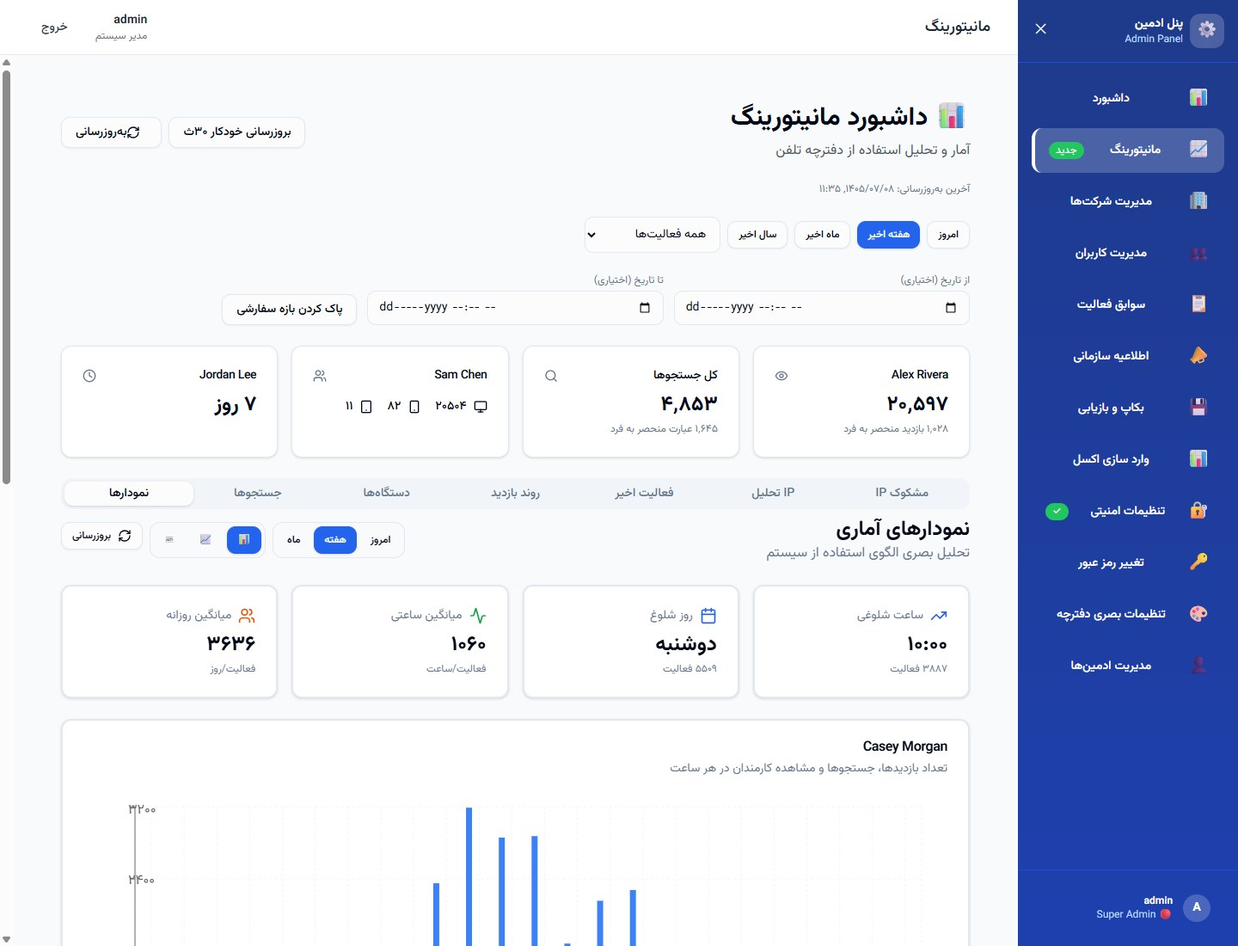
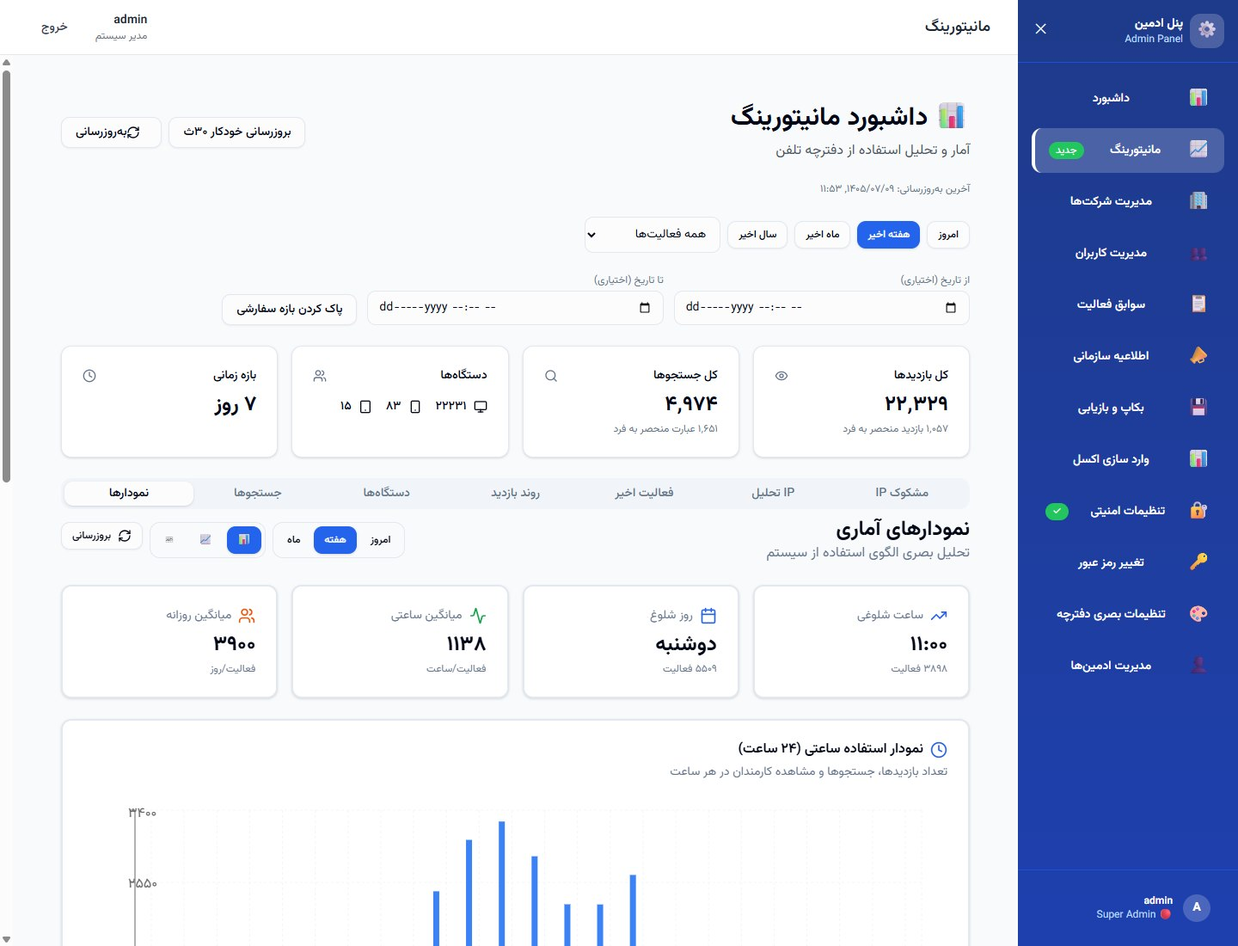
Fix analytics scrub and tighten catalog copy
- Re-capture 08-analytics with Persian KPI/chart labels kept (scrub brands/PII only)
- Clarify Backup & Restore as one combined admin page (screens 11-12)
- Photo limit 2 MB; soften photo-on-every-card claims
- Add Start-here strip, buyer section + CTAs, market positioning
- Persian-weight hero + FA-friendly sticky chips; enrich README

diff --git a/docs/index.html b/docs/index.html
@@ -88,30 +88,57 @@
     @media(max-width:1000px){.highlights{grid-template-columns:1fr 1fr}}
     @media(max-width:900px){.stats,.gallery,.cards,.cards.six{grid-template-columns:1fr 1fr} h1{max-width:none}}
     @media(max-width:560px){.stats,.gallery,.cards,.cards.six,.journey,.highlights{grid-template-columns:1fr}}
+  
+    .fa-title{display:block;font-family:Vazirmatn,Inter,sans-serif;direction:rtl;margin:0 0 12px;font-size:clamp(28px,3.6vw,40px);line-height:1.25;letter-spacing:0;font-weight:700}
+    .start-here{margin:0 0 22px;padding:16px;border:1px solid rgba(96,165,250,.35);border-radius:16px;background:rgba(96,165,250,.07)}
+    .start-label{margin:0 0 12px;font-size:13px;font-weight:600;color:var(--accent)}
+    .fa-inline{font-family:Vazirmatn,Inter,sans-serif}
+    .start-row{display:grid;grid-template-columns:repeat(5,minmax(0,1fr));gap:8px}
+    .start-row a{display:flex;flex-direction:column;gap:2px;padding:12px 10px;border-radius:12px;border:1px solid var(--line);background:var(--card);color:var(--text);text-decoration:none;min-height:78px}
+    .start-row a:hover{border-color:var(--accent);text-decoration:none}
+    .start-row small{color:var(--accent);font-size:10px;font-weight:700;letter-spacing:.12em}
+    .start-row span{font-size:12.5px;font-weight:600}
+    .start-row em{font-style:normal;font-family:Vazirmatn,Inter,sans-serif;direction:rtl;color:var(--muted);font-size:11.5px}
+    .buyer,.market{margin:0 0 22px;padding:20px 18px;border:1px solid var(--line);border-radius:16px;background:var(--card)}
+    .buyer-h{margin:0 0 10px;font-size:18px;font-weight:700}
+    .buyer-en{margin:0 0 8px;color:var(--muted);font-size:14px;max-width:820px}
+    .buyer-fa{margin:0 0 14px;color:var(--muted);font-size:14px;font-family:Vazirmatn,Inter,sans-serif;direction:rtl;max-width:820px}
+    .cta-row{display:flex;flex-wrap:wrap;gap:10px;margin:0}
+    a.cta{display:inline-flex;align-items:center;padding:10px 16px;border-radius:999px;background:var(--accent);color:#0b1220;font-weight:700;font-size:13px;text-decoration:none}
+    a.cta:hover{text-decoration:none;filter:brightness(1.05)}
+    a.cta.ghost{background:transparent;border:1px solid var(--accent);color:var(--accent)}
+    .market-cards{display:grid;grid-template-columns:repeat(3,1fr);gap:10px}
+    .mcard{padding:14px;border:1px solid var(--line);border-radius:12px;background:rgba(7,9,13,.35)}
+    .mcard h3{margin:0 0 6px;font-size:14px}
+    .mcard p{margin:0;color:var(--muted);font-size:12.5px;line-height:1.5}
+    @media(max-width:900px){.start-row,.market-cards{grid-template-columns:1fr 1fr}}
+    @media(max-width:560px){.start-row,.market-cards{grid-template-columns:1fr}}
+
   </style>
 </head>
 <body>
   <header class="hero">
     <div class="wrap">
-      <p class="kicker">Enterprise Directory · 17-screen product tour · Staff + Admin</p>
-      <h1>Photos, mobile &amp; email, announcements, and admin reports — in one org phonebook</h1>
+      <p class="kicker">دفترچه تلفن سازمانی · Enterprise Directory · تور ۱۷ صفحهای · Staff + Admin</p>
+      <h1><span class="fa-title">دفترچه سازمانی با عکس، موبایل، اطلاعیه و گزارش ادمین</span>
+        Photos, mobile &amp; email, announcements, and admin reports — in one org phonebook</h1>
       <p class="lede">
-        Colleagues open contact cards with <strong>profile photos</strong>, <strong>mobile</strong>, and <strong>email</strong>;
+        Colleagues open contact cards with a <strong>profile photo when uploaded</strong> (else a gendered demo avatar), plus <strong>mobile</strong> and <strong>email</strong> when privacy toggles allow;
         the holding publishes <strong>org announcements</strong>; operators run <strong>admin reports</strong>, activity audit,
-        Excel import, backups, theme, and 2FA. Frames are <strong>real product pages</strong> with sensitive rows anonymized.
+        Excel import, backup &amp; restore, theme, and 2FA. Frames are <strong>real product pages</strong> with sensitive rows anonymized.
       </p>
       <p class="lede fa">
-        همکاران روی کارتها <strong>عکس پرسنل</strong>، <strong>موبایل</strong> و <strong>ایمیل</strong> را میبینند؛
+        همکاران روی کارتها <strong>عکس پروفایل (در صورت آپلود)</strong> یا آواتار دموی خانم/آقا میبینند؛ موبایل و ایمیل با کنترل نمایش؛
         هلدینگ <strong>اطلاعیه سازمانی</strong> منتشر میکند؛ ادمینها <strong>گزارش و مانیتورینگ</strong>، لاگ فعالیت،
-        ورود اکسل، بکاپ، تم و ۲FA را مدیریت میکنند. اسکرینها از UI واقعیاند با دادهٔ دمو.
+        ورود اکسل، بکاپ و بازیابی، تم و ۲FA را مدیریت میکنند. اسکرینها از UI واقعیاند با دادهٔ دمو.
       </p>
 
       <div class="highlights" aria-label="Key capabilities">
         <a class="hl" href="#s-16">
           <span class="ico" aria-hidden="true">📷</span>
           <b>Personnel photos</b>
-          <span>Upload JPEG/PNG/WebP, crop &amp; zoom, circular card preview — avatars on the staff directory.</span>
-          <span class="fa">آپلود عکس پرسنل، برش و زوم، پیشنمایش دایرهای روی کارت دفترچه.</span>
+          <span>Upload JPEG/PNG/WebP (max 2&nbsp;MB), crop &amp; zoom, circular preview — on the staff card when a photo is uploaded.</span>
+          <span class="fa">آپلود عکس (حداکثر ۲MB)، برش و زوم، پیشنمایش دایرهای — روی کارت وقتی عکس آپلود شده باشد.</span>
         </a>
         <a class="hl" href="#s-01">
           <span class="ico" aria-hidden="true">📱</span>
@@ -133,6 +160,36 @@
         </a>
       </div>
 
+      <div class="start-here" id="start">
+        <p class="start-label"><span class="fa-inline">شروع از اینجا</span> · Start here — 5 key frames</p>
+        <div class="start-row">
+          <a href="#s-01"><small>01</small><span>Directory</span><em>دفترچه</em></a>
+          <a href="#s-09"><small>09</small><span>Announcements</span><em>اطلاعیه</em></a>
+          <a href="#s-08"><small>08</small><span>Monitoring</span><em>مانیتورینگ</em></a>
+          <a href="#s-16"><small>16</small><span>Photo upload</span><em>آپلود عکس</em></a>
+          <a href="#s-17"><small>17</small><span>Crop</span><em>برش</em></a>
+        </div>
+      </div>
+
+      <section class="buyer" id="buyer" aria-label="Who it's for">
+        <h2 class="buyer-h">Who it's for / مخاطب</h2>
+        <p class="buyer-en">Built for <strong>holding IT</strong> and multi-company orgs that need an <strong>on-prem Persian RTL PWA</strong> phonebook — not a cloud CRM contacts module. Privacy toggles (<code>show_mobile</code> / <code>show_email</code>) keep sensitive fields under admin control.</p>
+        <p class="buyer-fa">برای <strong>IT هلدینگ</strong> و سازمانهای چندشرکتی که به دفترچهٔ <strong>آنپریم، فارسی و RTL بهصورت PWA</strong> نیاز دارند — نه ماژول مخاطبین CRM ابری. کنترل نمایش موبایل/ایمیل در دست ادمین است.</p>
+        <p class="cta-row">
+          <a class="cta" href="https://www.ramioo.com/contact">Contact / تماس</a>
+          <a class="cta ghost" href="https://www.ramioo.com/projects/enterprise-directory">Project page</a>
+        </p>
+      </section>
+
+      <section class="market" id="market" aria-label="Market positioning">
+        <h2 class="buyer-h">Where it sits / جایگاه</h2>
+        <div class="market-cards">
+          <div class="mcard"><h3>vs Excel / static PDF</h3><p>Live search, filters, multi-company tree, and operator governance — without file drift or reprint cycles.</p></div>
+          <div class="mcard"><h3>vs generic CRM contacts</h3><p>Org phonebook UX for staff (RTL PWA, extensions, privacy toggles), not sales pipeline clutter.</p></div>
+          <div class="mcard"><h3>On-prem holding fit</h3><p>Announcements, usage monitoring, Excel import, backup &amp; restore, and 2FA for IT-owned deployments.</p></div>
+        </div>
+      </section>
+
       <div class="banner">
         <b>Anonymized deployment shots.</b>
         Names, companies, phones, emails, and IPs were replaced with fictional demo data in the browser before capture — no blur, no server changes.
@@ -152,8 +209,8 @@
         <a class="key" href="#s-08"><small>08</small><span>Reports / monitoring</span></a>
         <a class="key" href="#s-09"><small>09</small><span>Announcements</span></a>
         <a href="#s-10"><small>10</small><span>Excel import</span></a>
-        <a href="#s-11"><small>11</small><span>Backup</span></a>
-        <a href="#s-12"><small>12</small><span>Restore</span></a>
+        <a href="#s-11"><small>11</small><span>Backup &amp; Restore</span></a>
+        <a href="#s-12"><small>12</small><span>Backup &amp; Restore</span></a>
         <a href="#s-13"><small>13</small><span>Security / 2FA</span></a>
         <a href="#s-14"><small>14</small><span>Visual theme</span></a>
         <a href="#s-15"><small>15</small><span>Password</span></a>
@@ -161,26 +218,27 @@
         <a class="key" href="#s-17"><small>17</small><span>Photo crop</span></a>
       </nav>
       <div class="stats">
-        <div class="stat"><b>Photo + crop</b><span>Personnel avatars on cards</span></div>
-        <div class="stat"><b>Mobile · Email</b><span>Visible on staff directory</span></div>
-        <div class="stat"><b>Announcements</b><span>Holding-wide notices</span></div>
-        <div class="stat"><b>Admin reports</b><span>Analytics + activity audit</span></div>
+        <div class="stat"><b>17 screens</b><span>Staff + Admin tour</span></div>
+        <div class="stat"><b>Staff + Admin</b><span>Directory &amp; governance</span></div>
+        <div class="stat"><b>2FA</b><span>Authenticator + recovery</span></div>
+        <div class="stat"><b>On-prem</b><span>Persian RTL PWA</span></div>
       </div>
     </div>
   </header>
 
   <nav class="toc">
     <div class="wrap">
-      <a class="chip key" href="#s-01">01 Mobile/Email</a>
-      <a class="chip key" href="#s-08">08 Reports</a>
-      <a class="chip key" href="#s-09">09 Announcements</a>
-      <a class="chip key" href="#s-16">16 Photo</a>
-      <a class="chip key" href="#s-17">17 Crop</a>
+      <a class="chip key" href="#start">Start here</a>
+      <a class="chip key" href="#s-01">01 دفترچه</a>
+      <a class="chip key" href="#s-08">08 مانیتورینگ</a>
+      <a class="chip key" href="#s-09">09 اطلاعیه</a>
+      <a class="chip key" href="#s-16">16 عکس</a>
+      <a class="chip key" href="#s-17">17 برش</a>
+      <a class="chip" href="#buyer">Buyer</a>
       <a class="chip" href="#s-03">03 Dashboard</a>
-      <a class="chip" href="#s-05">05 Employees</a>
-      <a class="chip" href="#s-10">10 Import</a>
+      <a class="chip" href="#s-11">11–12 Backup</a>
       <a class="chip" href="#s-13">13 Security</a>
-      <a class="chip" href="#stack">All capabilities</a>
+      <a class="chip" href="#stack">Capabilities</a>
       <a class="chip" href="https://github.com/ramincsy/enterprise-directory-showcase">GitHub</a>
     </div>
   </nav>
@@ -189,15 +247,15 @@
 
   <section class="mod" id="s-01"><div class="wrap">
     <p class="step-kicker">01 / 17 · Staff · Key capability</p>
-    <h2>Staff directory — photos, mobile, and email on every card</h2>
+    <h2>Staff directory — search, cards, mobile &amp; email</h2>
     <div class="pillrow">
-      <span class="pill">Profile photo avatars</span>
+      <span class="pill">Profile photo when uploaded</span>
       <span class="pill">Mobile action</span>
       <span class="pill">Email action</span>
       <span class="pill">Extension · search · filters</span>
     </div>
-    <p class="why">Search by name, department, or email; filter by company and department. Each contact card shows a profile photo (or gendered demo avatar), the extension, and — when visibility allows — one-tap <strong>email</strong> and <strong>mobile</strong> actions. Dark mode and language live in the product chrome.</p>
-    <p class="why fa">جستجو با نام، بخش یا ایمیل؛ فیلتر شرکت و بخش. روی هر کارت: <strong>عکس پروفایل</strong> (یا آواتار دموی خانم/آقا)، داخلی، و در صورت مجاز بودن نمایش، اکشن <strong>ایمیل</strong> و <strong>موبایل</strong>. تم تیره و زبان در خود محصول است.</p>
+    <p class="why">Search by name, department, or email; filter by company and department. Each card shows a profile photo when uploaded (otherwise a gendered demo avatar), the extension, and — when <code>show_mobile</code> / <code>show_email</code> allow — one-tap <strong>email</strong> and <strong>mobile</strong> actions. Dark mode and language live in the product chrome.</p>
+    <p class="why fa">جستجو با نام، بخش یا ایمیل؛ فیلتر شرکت و بخش. روی کارت: <strong>عکس پروفایل در صورت آپلود</strong> (وگرنه آواتار دموی خانم/آقا)، داخلی، و با کنترل نمایش، اکشن <strong>ایمیل</strong> و <strong>موبایل</strong>. تم تیره و زبان در خود محصول است.</p>
     <div class="shot" data-full="shots/01-directory.jpg"><img src="shots/01-directory.jpg" alt="01 — Staff directory with photos, mobile and email" /></div>
     <p class="note">Card identities swapped to fictional demo people/companies before capture. Look for photo avatars plus email/mobile controls on the cards.</p>
     <p class="note fa">هویت روی کارتها قبل از اسکرین با دادهٔ دمو عوض شده است. آواتار عکس و کنترل ایمیل/موبایل را روی کارتها ببینید.</p>
@@ -298,19 +356,19 @@
 
   <section class="mod" id="s-11"><div class="wrap">
     <p class="step-kicker">11 / 17 · Data</p>
-    <h2>Backup — JSON export of the book</h2>
-    <p class="why">Export companies, employees, announcements, and admin metadata for migration or disaster recovery.</p>
-    <p class="why fa">خروجی JSON شرکتها، کارمندان، اطلاعیهها و متادیتای ادمین برای مهاجرت یا بازیابی.</p>
-    <div class="shot" data-full="shots/11-backup.jpg"><img src="shots/11-backup.jpg" alt="11 — Backup" /></div>
-    <p class="next"><a href="#s-12">Next · 12 Restore →</a></p>
+    <h2>Backup &amp; Restore — export and gated recovery</h2>
+    <p class="why">One admin page for disaster recovery: JSON export of companies, employees, announcements, and admin metadata — plus Super Admin–only restore with confirmation phrase and optional wipe-before-load.</p>
+    <p class="why fa">یک صفحه برای بازیابی: خروجی JSON شرکتها، کارمندان، اطلاعیهها و متادیتای ادمین؛ و بازیابی فقط سوپرادمین با عبارت تأیید و امکان پاکسازی قبل از بارگذاری.</p>
+    <div class="shot" data-full="shots/11-backup.jpg"><img src="shots/11-backup.jpg" alt="11 — Backup &amp; Restore" /></div>
+    <p class="next"><a href="#s-12">Next · 12 same combined page →</a></p>
   </div></section>
 
   <section class="mod" id="s-12"><div class="wrap">
     <p class="step-kicker">12 / 17 · Data</p>
-    <h2>Restore — gated recovery</h2>
-    <p class="why">Super Admin–only restore with confirmation phrase and optional wipe-before-load for clean migrations.</p>
-    <p class="why fa">بازیابی فقط سوپرادمین با عبارت تأیید و امکان پاکسازی قبل از بارگذاری.</p>
-    <div class="shot" data-full="shots/12-restore.jpg"><img src="shots/12-restore.jpg" alt="12 — Restore" /></div>
+    <h2>Backup &amp; Restore — same combined page</h2>
+    <p class="why">Not a separate Restore-only screen: backup export and gated restore live on one admin surface (menu: بکاپ و بازیابی). Frame 12 keeps tour numbering while showing the same combined page.</p>
+    <p class="why fa">صفحهٔ جداگانهٔ «فقط بازیابی» نیست؛ خروجی و بازیابی در یک سطح ادمین (منو: بکاپ و بازیابی) هستند. فریم ۱۲ همان صفحه برای پیوستگی تور است.</p>
+    <div class="shot" data-full="shots/12-restore.jpg"><img src="shots/12-restore.jpg" alt="12 — Backup &amp; Restore (combined)" /></div>
     <p class="next"><a href="#s-13">Next · 13 Security →</a></p>
   </div></section>
 
@@ -346,10 +404,10 @@
     <h2>Add personnel photos — edit user &amp; upload</h2>
     <div class="pillrow">
       <span class="pill">JPEG / PNG / WebP</span>
-      <span class="pill">Max 3 MB</span>
+      <span class="pill">Max 2 MB</span>
       <span class="pill">Shows on staff directory</span>
     </div>
-    <p class="why">From the people table, operators open <strong>Edit User</strong> to change bilingual names, company, gender, department, extension — and <strong>attach a profile photo</strong>. That photo becomes the avatar on staff directory cards so colleagues recognize people, not just numbers.</p>
+    <p class="why">From the people table, operators open <strong>Edit User</strong> to change bilingual names, company, gender, department, extension — and <strong>attach a profile photo</strong> (JPEG/PNG/WebP, max 2&nbsp;MB). When uploaded, that photo becomes the avatar on staff directory cards; otherwise a gendered demo avatar is shown.</p>
     <p class="why fa">از جدول افراد، اپراتور «ویرایش کاربر» را باز میکند تا نام دوزبانه، شرکت، جنسیت، بخش، داخلی و <strong>عکس پروفایل</strong> را تنظیم کند. همان عکس روی کارت دفترچه دیده میشود تا همکاران افراد را بشناسند، نه فقط شماره داخلی.</p>
     <div class="shot" data-full="shots/16-employee-edit.jpg"><img src="shots/16-employee-edit.jpg" alt="16 — Edit employee with photo upload" /></div>
     <p class="next"><a href="#s-17">Next · 17 Photo crop →</a></p>
@@ -384,8 +442,8 @@
 
   <section class="mod" id="fa"><div class="wrap fa-block">
     <h2>دفترچه تلفن سازمانی — تور ۱۷ صفحهای</h2>
-    <p class="why">بیننده باید در نگاه اول بفهمد: میتوان <strong>عکس پرسنل</strong> اضافه کرد، روی کارتها <strong>موبایل و ایمیل</strong> دید، <strong>اطلاعیه سازمانی</strong> منتشر کرد، و <strong>گزارش ادمین</strong> (مانیتورینگ و لاگ) گرفت — بههمراه شرکتها، اکسل، بکاپ، تم و ۲FA.</p>
-    <p class="why">ترتیب تور: دفترچه کاربری → ورود ادمین → داشبورد → شرکتها → کارمندان → ادمینها → فعالیت → مانیتورینگ → اطلاعیه → اکسل → بکاپ → بازیابی → امنیت → تم بصری → تغییر رمز → ویرایش و آپلود عکس → برش/زوم عکس.</p>
+    <p class="why">بیننده باید در نگاه اول بفهمد: میتوان <strong>عکس پروفایل</strong> آپلود کرد (در غیر این صورت آواتار دمو)، با کنترل نمایش <strong>موبایل و ایمیل</strong> دید، <strong>اطلاعیه سازمانی</strong> منتشر کرد، و <strong>گزارش ادمین</strong> (مانیتورینگ و لاگ) گرفت — بههمراه شرکتها، اکسل، بکاپ، تم و ۲FA.</p>
+    <p class="why">ترتیب تور: دفترچه کاربری → ورود ادمین → داشبورد → شرکتها → کارمندان → ادمینها → فعالیت → مانیتورینگ → اطلاعیه → اکسل → بکاپ و بازیابی → امنیت → تم بصری → تغییر رمز → ویرایش و آپلود عکس → برش/زوم عکس.</p>
     <p class="note fa">اسکرینها از UI واقعیاند؛ نامها و مشخصات حساس در مرورگر با دادهٔ دمو عوض شدهاند (بدون بلور).</p>
   </div></section>
 
@@ -420,8 +478,8 @@
       { n:"08", src:"shots/08-analytics.jpg", tag:"OPS · KEY", title:"Admin reports", desc:"Usage analytics & monitoring", key:true },
       { n:"09", src:"shots/09-announcements.jpg", tag:"OPS · KEY", title:"Org announcements", desc:"Holding-wide notices", key:true },
       { n:"10", src:"shots/10-import.jpg", tag:"DATA", title:"Excel import", desc:"Bulk load + preview" },
-      { n:"11", src:"shots/11-backup.jpg", tag:"DATA", title:"Backup", desc:"JSON export" },
-      { n:"12", src:"shots/12-restore.jpg", tag:"DATA", title:"Restore", desc:"Gated recovery" },
+      { n:"11", src:"shots/11-backup.jpg", tag:"DATA", title:"Backup & Restore", desc:"JSON export + gated restore" },
+      { n:"12", src:"shots/12-restore.jpg", tag:"DATA", title:"Backup & Restore", desc:"Same combined admin page" },
       { n:"13", src:"shots/13-security.jpg", tag:"SEC", title:"Security / 2FA", desc:"Authenticator + codes" },
       { n:"14", src:"shots/14-visual-settings.jpg", tag:"BRAND", title:"Visual settings", desc:"Theme the public book" },
       { n:"15", src:"shots/15-change-password.jpg", tag:"SEC", title:"Change password", desc:"Operator hygiene" },

diff --git a/README.md b/README.md
@@ -2,10 +2,11 @@
 
 # Enterprise directory
 
-Contacts across large organizations
+Contacts across large organizations · دفترچه تلفن سازمانی
 
 <p>
-  <a href="https://www.ramioo.com/projects/enterprise-directory"><img src="https://img.shields.io/badge/▶%20Open%20project%20page-0A66C2?style=for-the-badge" alt="Open project page" /></a>
+  <a href="https://www.ramioo.com/projects/enterprise-directory"><img src="https://img.shields.io/badge/%E2%86%92%20Open%20project%20page-0A66C2?style=for-the-badge" alt="Open project page" /></a>
+  <a href="https://ramincsy.github.io/enterprise-directory-showcase/"><img src="https://img.shields.io/badge/17--screen%20Pages%20tour-111827?style=for-the-badge" alt="Pages tour" /></a>
   <a href="https://github.com/ramincsy/ramioo-showcase"><img src="https://img.shields.io/badge/ramioo-showcase-hub-111827?style=for-the-badge" alt="hub" /></a>
 </p>
 
@@ -13,32 +14,52 @@ Contacts across large organizations
   <a href="https://www.ramioo.com/projects/enterprise-directory"><img src="docs/card.jpg" alt="Enterprise directory" width="860" /></a>
 </p>
 
-<p><a href="https://www.ramioo.com/projects/enterprise-directory">https://www.ramioo.com/projects/enterprise-directory</a></p>
+<p><a href="https://ramincsy.github.io/enterprise-directory-showcase/">Live catalog (GitHub Pages)</a> · <a href="https://www.ramioo.com/projects/enterprise-directory">Project page</a></p>
 
 </div>
 
 > Public product window. Source code stays private.
 
-Interactive UI catalogs on GitHub Pages: [Atlas](https://ramincsy.github.io/atlas-showcase/) · [Taradod Nexus](https://ramincsy.github.io/taradod-nexus-showcase/)
+Interactive UI catalogs on GitHub Pages: [Atlas](https://ramincsy.github.io/atlas-showcase/) · [Taradod Nexus](https://ramincsy.github.io/taradod-nexus-showcase/) · [AftabPulse](https://ramincsy.github.io/aftabpulse-showcase/)
 
 ---
 
 ### Focus
 
-- Organization-wide phone book / directory
-- Search and structure for large orgs
-- Operational UI for staff, not just a static list
-- Deployed as part of ramioo software portfolio
+- Organization-wide phone book / directory for holding IT and multi-company orgs
+- On-prem Persian RTL PWA — staff directory + full admin governance
+- Operational UI for staff, not a static Excel/PDF list or generic CRM contacts module
+
+---
+
+### Key capabilities
+
+- **Staff directory** — search/filters; profile photo when uploaded (else gendered demo avatar); mobile & email when `show_mobile` / `show_email` allow
+- **Org announcements** — time-bounded holding notices in the staff experience
+- **Admin reports / monitoring** — usage analytics, search heat, device mix, activity audit
+- **People ops** — companies, employees, Excel import, photo upload + crop (max **2 MB**)
+- **Backup & Restore** — combined admin page (JSON export + gated Super Admin restore)
+- **Security** — Authenticator 2FA, recovery codes, separate admin login
+
+**Tour:** [17-screen catalog on GitHub Pages](https://ramincsy.github.io/enterprise-directory-showcase/)
+
+---
+
+### Who it’s for
+
+Holding IT teams that need an on-prem, privacy-controlled org phonebook with announcements and monitoring — without stitching spreadsheets or CRM contact modules.
+
+CTAs: [Contact](https://www.ramioo.com/contact) · [Project page](https://www.ramioo.com/projects/enterprise-directory)
 
 ---
 
 <div dir="rtl" lang="fa" align="right">
 
-### فارسی
+### تمرکز
 
-دفترچه تلفن / دایرکتوری سازمانی. ویترین عمومی؛ سورس خصوصی.
+دفترچه تلفن / دایرکتوری سازمانی برای IT هلدینگ و چندشرکتی. آنپریم، فارسی و RTL بهصورت PWA. تور ۱۷ صفحهای: <a href="https://ramincsy.github.io/enterprise-directory-showcase/">کاتالوگ Pages</a>.
 
-صفحهٔ معرفی پروژه: <a href="https://www.ramioo.com/projects/enterprise-directory">https://www.ramioo.com/projects/enterprise-directory</a>
+صفحهٔ پروژه: <a href="https://www.ramioo.com/projects/enterprise-directory">https://www.ramioo.com/projects/enterprise-directory</a>
 
 </div>
 
@@ -48,3 +69,4 @@ Interactive UI catalogs on GitHub Pages: [Atlas](https://ramincsy.github.io/atla
 - https://www.ramioo.com/projects/enterprise-directory
 - https://www.ramioo.com/contact · ramincsywork@gmail.com · 0914 666 50 68
 - Hub: https://github.com/ramincsy/ramioo-showcase
+- Pages tour: https://ramincsy.github.io/enterprise-directory-showcase/
